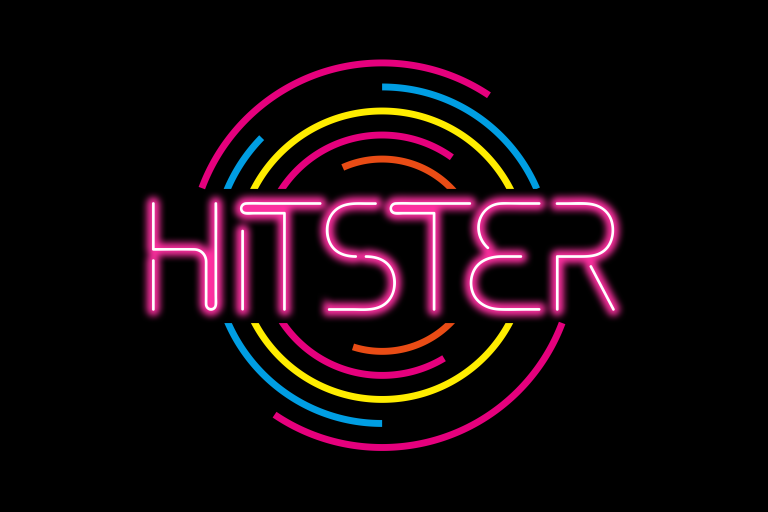
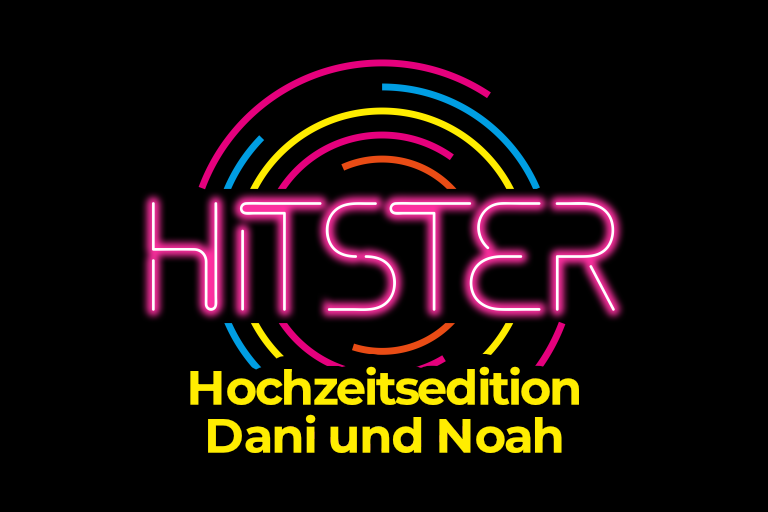
update

Changed region(s): [[0.25, 0.6875, 0.7812, 0.9062]]

diff --git a/src/app/Hitster/game.tsx b/src/app/Hitster/game.tsx
@@ -2,7 +2,7 @@
 
 import Image from "next/image";
 import React, { useState, useEffect, useMemo } from "react";
-import HitsterImage from "~/images/hitster.png";
+import HitsterImage from "~/images/hitster_logo.png";
 import INPUT_DECK from "./data.json";
 import confetti from "canvas-confetti";
 import { api } from "~/trpc/react";
@@ -169,25 +169,30 @@ export default function HitsterGame() {
   };
 
   return (
-    <main className="--font-montserrat -z-40 flex h-screen w-screen flex-col overflow-auto bg-black text-slate-100">
+    <main className="--font-montserrat -z-40 flex h-full w-screen flex-col overflow-auto bg-slate-950 text-slate-100">
       {/* --- HEADER --- */}
-      <Image
-        src={HitsterImage}
-        alt="HITSTER Logo"
-        className="fixed left-0 right-0 -z-20 w-56 opacity-50"
-      />
+      {gameState != "welcome" && (
+        <Image
+          src={HitsterImage}
+          alt="HITSTER Logo"
+          className="fixed left-8 top-4 -z-20 w-56 opacity-50"
+        />
+      )}
 
       {/* --- OBERER BEREICH: Welcome --- */}
       {gameState === "welcome" && (
-        <div className="mt-10 flex flex-col gap-4 text-center">
-          <h2 className="text-3xl font-bold text-yellow-400">Willkommen</h2>
-          <div className="text-lg text-yellow-400">
+        <div className="mt-10 flex flex-col items-center gap-4 text-center">
+          <Image src={HitsterImage} alt="HITSTER Logo" className="w-56" />
+          <h2 className="text-3xl font-bold text-[#FFED00]">
+            Hochzeitsedition Dani und Noah
+          </h2>
+          <div className="text-lg italic text-[#FFED00]">
             Ihr habt uns herausgefordert, jetzt fordern wir euch heraus!
           </div>
 
           <button
             onClick={() => setGameState("playing")}
-            className="mx-auto rounded bg-white px-6 py-2 font-bold text-black hover:bg-gray-200"
+            className="mx-auto mt-3 rounded bg-[#FFED00] px-6 py-2 font-bold text-black hover:bg-gray-200"
           >
             Los gehts!
           </button>
@@ -198,11 +203,16 @@ export default function HitsterGame() {
       <div className="relative mx-auto flex w-full max-w-5xl flex-1 flex-col items-center justify-center p-4">
         <div className="flex w-full max-w-2xl flex-col items-center gap-6">
           {/* Won State / Scoreboard (Direktes Anzeigen des Formulars) */}
-          {gameState === "won" && <Scoreboard score={player.score} />}
+          {gameState === "won" && (
+            <Scoreboard
+              score={player.score}
+              setShowLeaderboard={setShowLeaderboard}
+            />
+          )}
 
           {/* Aktuelle Karte (Video) */}
           {currentCard && gameState !== "won" && gameState !== "welcome" && (
-            <div className="flex w-full flex-col border border-slate-700 bg-slate-800 p-2 shadow-2xl">
+            <div className="flex w-full flex-col border border-slate-800 bg-slate-900 p-2 shadow-2xl">
               <div className="relative aspect-video overflow-hidden bg-black">
                 {currentCard.video ? (
                   <video
@@ -426,7 +436,7 @@ function LeaderboardModal({ onClose }: { onClose: () => void }) {
   return (
     <div className="fixed inset-0 z-50 flex items-center justify-center bg-black/70 backdrop-blur-sm transition-opacity">
       <div className="animate-in zoom-in w-full max-w-md rounded-xl border border-slate-700 bg-slate-800 p-8 text-center shadow-2xl duration-300">
-        <h2 className="mb-6 text-3xl font-bold text-yellow-400">
+        <h2 className="mb-6 text-3xl font-bold text-[#FFED00]">
           🏆 Top Rangliste
         </h2>
 
@@ -474,7 +484,13 @@ function LeaderboardModal({ onClose }: { onClose: () => void }) {
 }
 
 // 2. Scoreboard / Lead List Component (mit tRPC Mutation)
-function Scoreboard({ score }: { score: number }) {
+function Scoreboard({
+  score,
+  setShowLeaderboard,
+}: {
+  score: number;
+  setShowLeaderboard: (state: boolean) => void;
+}) {
   const [playerName, setPlayerName] = useState("");
   const [isSubmitted, setIsSubmitted] = useState(false);
   const [submitMessage, setSubmitMessage] = useState<string | null>(null);
@@ -502,7 +518,7 @@ function Scoreboard({ score }: { score: number }) {
   return (
     <div className="w-full max-w-lg rounded-xl border border-slate-700 bg-slate-800 p-8 text-center shadow-2xl">
       <div className="mb-4 text-6xl">🎉</div>
-      <h2 className="text-3xl font-bold text-yellow-400">Spiel beendet!</h2>
+      <h2 className="text-3xl font-bold text-[#FFED00]">Spiel beendet!</h2>
       <p className="mb-6 text-xl text-slate-300">
         Dein Endergebnis:{" "}
         <span className="font-extrabold text-orange-400">{score} Punkte</span>
@@ -513,7 +529,7 @@ function Scoreboard({ score }: { score: number }) {
         <p className="mt-4 text-lg font-bold text-green-400">{submitMessage}</p>
       ) : (
         <form onSubmit={handleSubmitScore} className="mt-8 space-y-4">
-          <h3 className="text-xl font-bold text-yellow-400">
+          <h3 className="text-xl font-bold text-[#FFED00]">
             Trage dich in die Rangliste ein!
           </h3>
           <input
@@ -540,12 +556,21 @@ function Scoreboard({ score }: { score: number }) {
         </form>
       )}
 
-      <button
-        onClick={() => window.location.reload()}
-        className="mt-8 rounded-full bg-white px-8 py-2 font-bold text-black shadow-lg transition-transform hover:scale-105"
-      >
-        Neues Spiel
-      </button>
+      <div className="mt-8 flex flex-row items-center justify-center gap-7">
+        <button
+          onClick={() => window.location.reload()}
+          className="h-12 rounded-full bg-white px-8 py-2 font-bold text-black shadow-lg transition-transform hover:scale-105"
+        >
+          Neues Spiel
+        </button>
+
+        <button
+          onClick={() => setShowLeaderboard(true)}
+          className="h-12 rounded-full bg-white px-8 py-2 font-bold text-black shadow-lg transition-transform hover:scale-105"
+        >
+          <span className="text-xl">🏆</span> Rangliste
+        </button>
+      </div>
     </div>
   );
 }

diff --git a/src/app/layout.tsx b/src/app/layout.tsx
@@ -1,5 +1,5 @@
 //"use server";
-
+import { headers } from "next/headers";
 import "~/styles/globals.css";
 
 import { Analytics } from "@vercel/analytics/react";
@@ -26,6 +26,7 @@ import { TRPCReactProvider } from "~/trpc/react";
 import { cookies } from "next/headers";
 import PasswordScreen from "./pw";
 import { env } from "~/env";
+import { usePathname } from "next/navigation";
 
 export const metadata: Metadata = {
   title: "Wedding Website",
@@ -36,8 +37,11 @@ export const metadata: Metadata = {
 export default function RootLayout({
   children,
 }: Readonly<{ children: React.ReactNode }>) {
+  const headersList = headers();
+
   const cookieStore = cookies();
   const pw_cookie = cookieStore.get("pw")?.value;
+  const path = headersList.get("referer") || "";
 
   if (pw_cookie != env.PW) {
     return (
@@ -51,6 +55,18 @@ export default function RootLayout({
         </body>
       </html>
     );
+  }
+
+  if (path == "Hitster") {
+    <html
+      lang="en"
+      className={`${RalewayLatin.className} ${MontserratLatin.className}`}
+    >
+      <body className="">
+        <TRPCReactProvider>{children}</TRPCReactProvider>
+        <Analytics />
+      </body>
+    </html>;
   }
 
   return (
